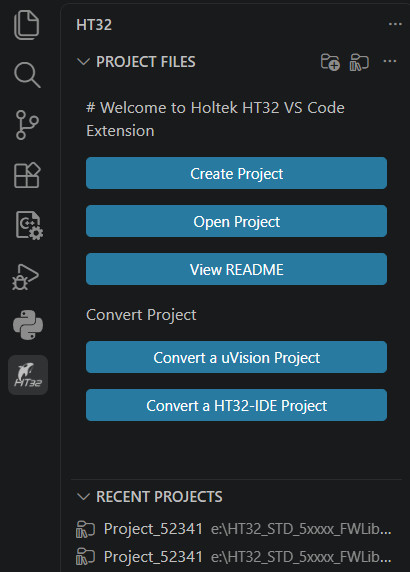
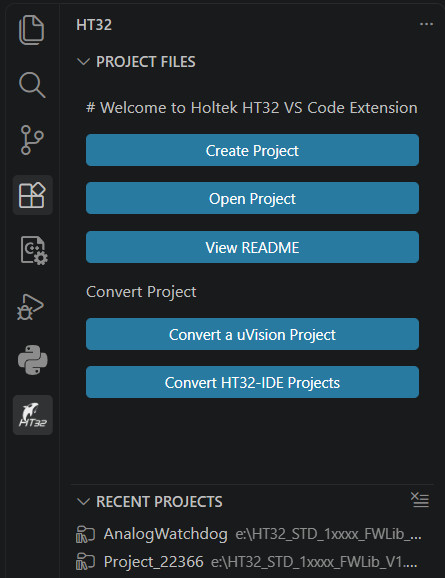
miner update

diff --git a/README.md b/README.md
@@ -294,9 +294,9 @@ Conversion warnings (e.g. prebuilt `.lib` files that cannot be used with GCC) ap
 
 <br>
 
-## Convert an HT32-IDE Project
+## Convert HT32-IDE Projects
 
-1. Click **Convert HT32-IDE Project** in the HT32 panel
+1. Click **Convert HT32-IDE Projects** in the HT32 panel
 2. Select one or more project folders containing `.project` / `.cproject` (Eclipse CDT format) — **multiple folders can be selected at once**
 
 Each selected folder is converted into its own folder inside `HT32_VSCode/`, sharing a common `HT32_VSCode/GNU_ARM/` for startup, linker script, and generated C files. The generated folder structure and TreeView organization are identical to a uVision conversion.
@@ -555,7 +555,7 @@ After conversion or project creation, the extension auto-generates `.clangd` and
 | `HT32: Create Project` | Open Create Project wizard |
 | `HT32: Open Project` | Browse for and open a `.ht32vs` project file |
 | `HT32: Convert uVision Project` | Import Keil `.uvprojx` / `.uvmpw` |
-| `HT32: Convert HT32-IDE Project` | Import Eclipse CDT `.project` |
+| `HT32: Convert HT32-IDE Projects` | Import Eclipse CDT `.project` |
 | `HT32: Build` | Run build task |
 | `HT32: Download` | Download firmware |
 | `HT32: Debug` | Start debug session |

diff --git a/README_TRAD.md b/README_TRAD.md
@@ -298,7 +298,7 @@ MyProject/                 ← 使用者命名的專案資料夾
 
 ## 匯入 HT32-IDE 專案
 
-1. HT32 面板 → **Convert HT32-IDE Project**
+1. HT32 面板 → **Convert HT32-IDE Projects**
 2. 選取一個或多個包含 `.project` / `.cproject` 的**專案資料夾**
 
 每個選取的資料夾各自轉換為 `HT32_VSCode/` 內的獨立目錄，共用 `HT32_VSCode/GNU_ARM/` 存放 startup、linker script 與自動產生的 C 檔案。產生的資料夾結構及**專案樹**組織方式，與匯入 uVision 專案相同。
@@ -560,7 +560,7 @@ int main(void) {
 | `HT32: Create Project` | 開啟建立專案精靈 |
 | `HT32: Open Project` | 瀏覽並開啟 `.ht32vs` 專案檔 |
 | `HT32: Convert uVision Project` | 匯入 Keil `.uvprojx` / `.uvmpw` |
-| `HT32: Convert HT32-IDE Project` | 匯入 Eclipse CDT `.project` |
+| `HT32: Convert HT32-IDE Projects` | 匯入 Eclipse CDT `.project` |
 | `HT32: Build` | 執行建置任務 |
 | `HT32: Download` | 燒錄韌體 |
 | `HT32: Debug` | 啟動除錯工作階段 |
